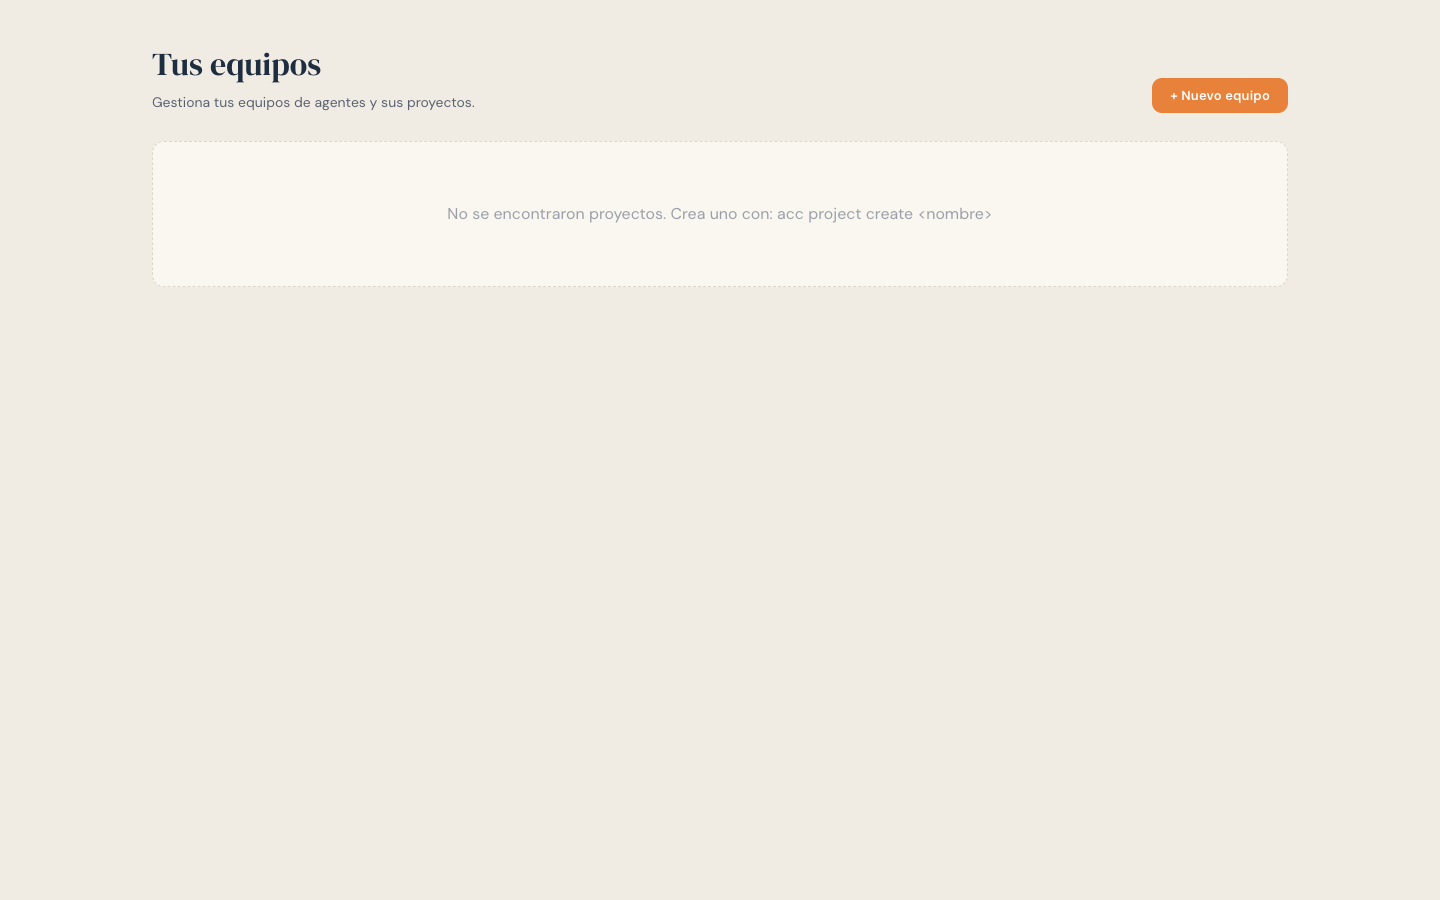
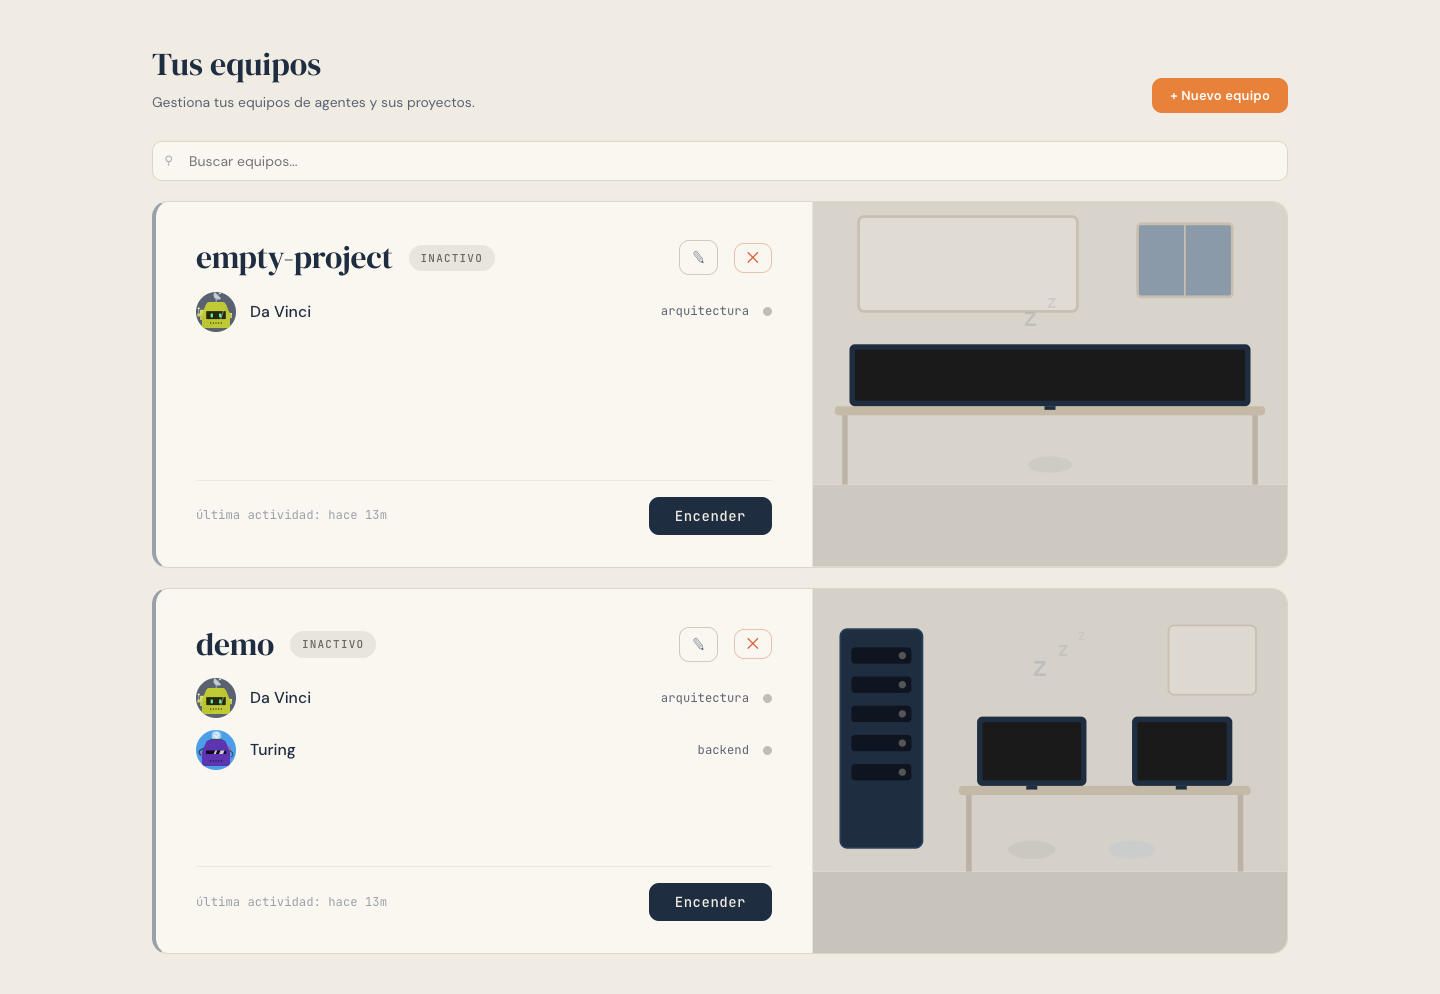
fix(qa): F-1 audit-qa.mjs uses real broker routes + suppresses fuzz noise
Two changes to scripts/audit-qa.mjs that turn the QA report from
"mostly noise" into a meaningful artifact:

1. Route paths — every fuzz callsite was POSTing to
   /api/create-project, which doesn't exist (the real route is
   /api/project/create per src/broker/index.ts:81). The handler
   responses in qa-report.json were uniformly the dispatcher's
   404 "Not found", not the C-1 traversal / shell-metachar / length
   rejections that audit-qa.mjs claims in the comments. Fixed all
   four callsites.

2. Listener noise — the page-level `pageerror` /
   `requestfailed` / `response` listeners fired during the fuzz
   section, polluting findings.failedRequests with the intentional
   4xx the fuzz IS supposed to provoke. The fuzz already logs its
   own request/response pairs in findings.fuzz; the duplicate in
   failedRequests was misleading reviewers into thinking the
   dashboard had broken. Wrapped the fuzz block with a small
   `inFuzz` flag and the listeners early-return while it's set.

Refreshed `docs/audits/qa-out/qa-report.json` and
`docs/audits/v0.2.3-security/qa-report.json` from a fresh run:
  - consoleErrors  : []
  - pageErrors     : []
  - failedRequests : []
  - fuzz[]         : 7 entries with real status codes (200, 401,
                     400 from the validation rejections)

Also adds F-6 to docs/audits/v0.2.3-security/followups.md
documenting that the visual difference between the v0.2.2 baseline
and v0.2.3 mobile-teams.png is a fixture artifact (different
[…]

diff --git a/docs/audits/v0.2.3-security/followups.md b/docs/audits/v0.2.3-security/followups.md
@@ -102,3 +102,36 @@ robustness, but should at least log the failure.
 
 - **Fix**: replace the empty catch with `console.error('[broker:db]
   wal_checkpoint failed', e)`.
+
+---
+
+## F-6 · `mobile-teams.png` first-card "mostly white screen + Z" — same UX-2 bug, different fixtures · *Info / not a regression*
+
+Reviewing `docs/audits/v0.2.3-security/screenshots/teams-mobile.png`
+the first card looks dramatically different from the v0.2.2 baseline
+(`docs/audits/qa-out/mobile-teams.png` as it stood at commit
+`2eb033f`): the v0.2.3 capture shows mostly the office illustration
+with a sleep "Zzz" overlay, while v0.2.2 showed two monitors on a
+desk.
+
+This is **not** a v0.2.3 regression. Both screenshots exhibit the
+same UX-2 mobile-reflow bug: the project card is not narrow-aware,
+the office illustration consumes ~60% of the card width, the
+"INACTIVO" badge truncates to "IM", and the "última actividad" text
+is cut off. The visual difference between the two PNGs is purely
+fixture-dependent:
+
+  - v0.2.2 fuzz QA used the user's real local broker, where
+    `zaipex-sass` (3+ agents) was the first card → 3-monitor desk
+    illustration variant.
+  - v0.2.3 fuzz QA seeds a fresh broker with `empty-project` (1
+    agent — architect only) → "sleeping office" illustration variant
+    (TV + Zzz, the empty-state asset).
+
+The dashboard renders different illustrations based on the project's
+agent count; with one agent it shows the "asleep" asset and that's
+what the user sees as "mostly white screen + Z".
+
+- **Tracker**: subsumed by **UX-2** in v0.2.2 audit §8 (still open,
+  v0.2.4 backlog). The mobile-reflow fix lands there.
+- **No code change for v0.2.3.**